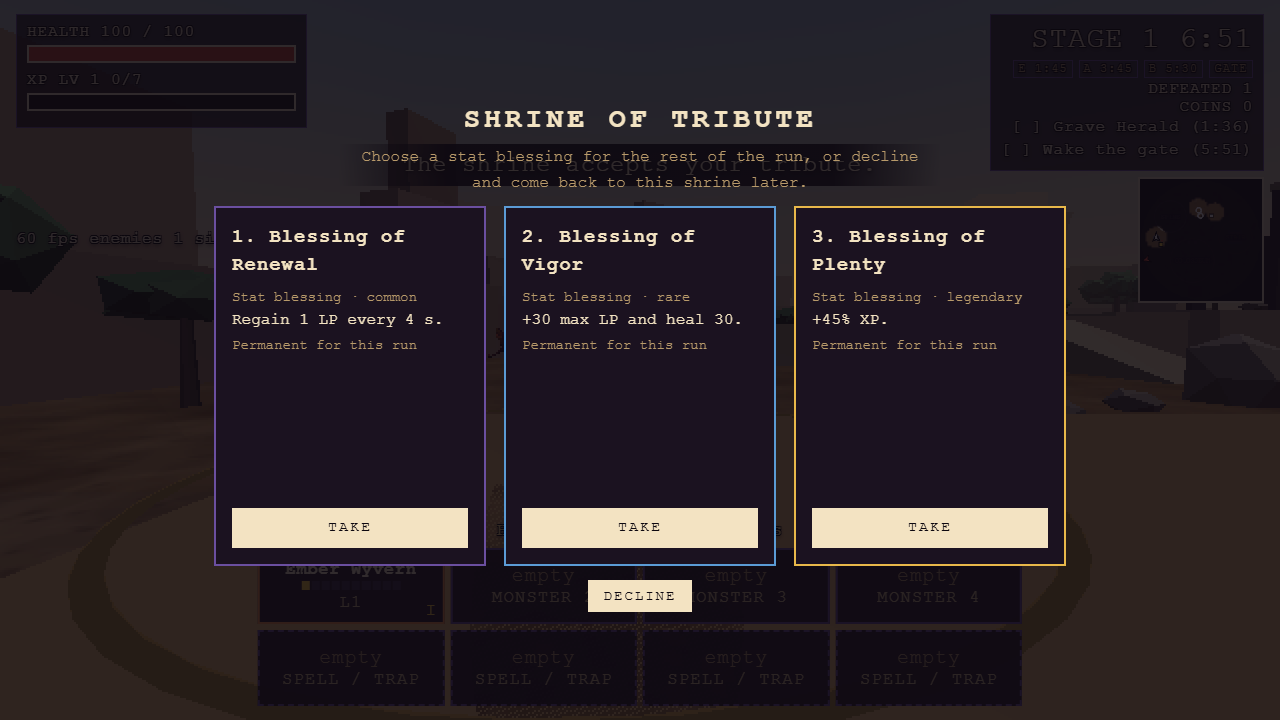
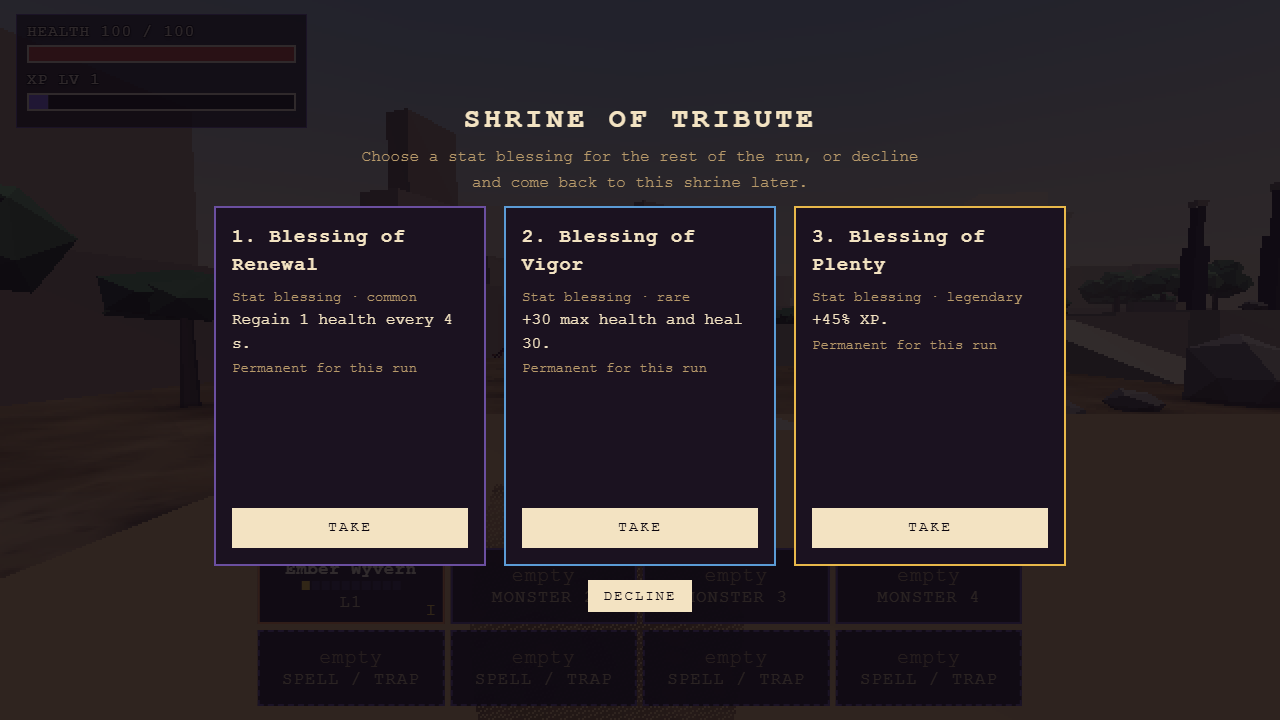
Fix: the shrines were not being added to the scene (a comment had swallowed the end of the line in the last props edit); Ley Thread core drawn with normal blending so it reads on sand; look-at pass script and screenshots
Claude-Session: https://claude.ai/code/session_01G4m5sPDpcSeznt8KShqd9B

diff --git a/duelsummoner/src/view/threads.js b/duelsummoner/src/view/threads.js
@@ -19,7 +19,7 @@ export class LeyThreads {
     const mk = (strips, mat) => { const g = new T.BufferGeometry(); g.setAttribute('position', new T.BufferAttribute(new Float32Array(SEG * 2 * strips * 3), 3)); g.setAttribute('color', new T.BufferAttribute(new Float32Array(SEG * 2 * strips * 4), 4));
       const idx = []; for (let k = 0; k < strips; k++) for (let s = 0; s < SEG - 1; s++) { const a = (k * SEG + s) * 2; idx.push(a, a + 1, a + 2, a + 1, a + 3, a + 2); } g.setIndex(idx);
       const m = new T.Mesh(g, mat); m.frustumCulled = false; m.visible = false; m.renderOrder = 3; this.group.add(m); return m; };
-    for (let i = 0; i < this.max; i++) this.list.push({ mesh: mk(2, this.matAdd), under: mk(1, this.matUnder), alive: false, trail: [], x: 0, z: 0, h: 0, gy: 0, gr: 0, life: 0, spd: 0, dx: 0, dz: 0, lat: 0 });
+    for (let i = 0; i < this.max; i++) this.list.push({ mesh: mk(1, this.matAdd), under: mk(2, this.matUnder), alive: false, trail: [], x: 0, z: 0, h: 0, gy: 0, gr: 0, life: 0, spd: 0, dx: 0, dz: 0, lat: 0 });
   }
   rnd() { this.rng = (this.rng * 1664525 + 1013904223) >>> 0; return this.rng / 4294967296; }
   _show(th, v) { th.mesh.visible = v; th.under.visible = v; }
@@ -71,10 +71,10 @@ export class LeyThreads {
       const taper = 1 - s / SEG, tw = 0.35 + taper * 0.65, near = sstep(4, 9, dist), a = taper * fade * fl * near * (th.far ? 0.75 : 1);
       const wc = Math.min(0.2, 0.5 * LEY.corePx * pxk * depth * tw), wh = Math.min(0.3, 0.5 * LEY.haloPx * pxk * depth * tw), wu = Math.min(0.4, 0.5 * LEY.underPx * pxk * depth * tw);       // sized by depth along the view axis, so the pixel width holds out to the screen edges
       const put = (P, i, w, sg) => P.setXYZ(i, q[0] + sx * w * sg, q[1] + sy * w * sg, q[2] + sz * w * sg);
-      put(pos, s * 2, wh, 1); put(pos, s * 2 + 1, wh, -1); put(pos, (SEG + s) * 2, wc, 1); put(pos, (SEG + s) * 2 + 1, wc, -1); put(upos, s * 2, wu, 1); put(upos, s * 2 + 1, wu, -1);
-      const ah = Math.min(maxA, a * 0.5), ac = Math.min(maxA, a * 0.75), au = Math.min(maxA, a * 0.55);
+      put(pos, s * 2, wh, 1); put(pos, s * 2 + 1, wh, -1); put(upos, s * 2, wu, 1); put(upos, s * 2 + 1, wu, -1); put(upos, (SEG + s) * 2, wc, 1); put(upos, (SEG + s) * 2 + 1, wc, -1);
+      const ah = Math.min(maxA, a * 0.5), ac = Math.min(LEY.coreAlpha, a * 1.1), au = Math.min(maxA, a * 0.55);       // the core is drawn with normal blending (additive white vanishes on bright sand), so it can be bright
       col.setXYZW(s * 2, this.halo.r, this.halo.g, this.halo.b, ah); col.setXYZW(s * 2 + 1, this.halo.r, this.halo.g, this.halo.b, ah);
-      col.setXYZW((SEG + s) * 2, this.core.r, this.core.g, this.core.b, ac); col.setXYZW((SEG + s) * 2 + 1, this.core.r, this.core.g, this.core.b, ac);
+      ucol.setXYZW((SEG + s) * 2, this.core.r, this.core.g, this.core.b, ac); ucol.setXYZW((SEG + s) * 2 + 1, this.core.r, this.core.g, this.core.b, ac);
       ucol.setXYZW(s * 2, this.under.r, this.under.g, this.under.b, au); ucol.setXYZW(s * 2 + 1, this.under.r, this.under.g, this.under.b, au);
     }
     pos.needsUpdate = col.needsUpdate = upos.needsUpdate = ucol.needsUpdate = true;

diff --git a/duelsummoner/src/view/props.js b/duelsummoner/src/view/props.js
@@ -66,7 +66,7 @@ export class Props {
       const water = new T.Mesh(new T.CylinderGeometry(1.1, 1.1, 0.05, 10), basic(rc)); water.position.y = 0.5; g.add(water);
       const track = new T.Mesh(new T.RingGeometry(E.shrines.radius - 0.6, E.shrines.radius, 48), basic(dim(rc, 0.75), { side: T.DoubleSide })); track.rotation.x = -Math.PI / 2; track.position.y = 0.1; g.add(track);
       const fill = new T.Mesh(new T.RingGeometry(E.shrines.radius - 0.6, E.shrines.radius, 48, 1, 0, 0.01), basic(rc, { side: T.DoubleSide, depthWrite: false })); fill.rotation.x = -Math.PI / 2; fill.position.y = 0.12; g.add(fill);
-      fill.userData.dyn = water.userData.dyn = track.userData.dyn = true; track.renderOrder = 1; fill.renderOrder = 2;       // the track stays out of the bake and draws first, the progress band over it (0.6 m wide) bake(g); G.add(g); P.shrines.push({ s, g, fill, water, lastP: -1 });
+      fill.userData.dyn = water.userData.dyn = track.userData.dyn = true; track.renderOrder = 1; fill.renderOrder = 2; bake(g); G.add(g); P.shrines.push({ s, g, fill, water, lastP: -1 });       // the track stays out of the bake and draws first, the progress band over it (0.6 m wide)
     }
     if (world.altar) {                                                  // stepped altar with two bowls: Banish and Tribute
       const a = world.altar, g = new T.Group(); g.position.set(a.x, a.y, a.z);

diff --git a/duelsummoner/src/data/config.js b/duelsummoner/src/data/config.js
@@ -33,4 +33,4 @@ export const CFG = {
 
 
 // Ley Threads: the one place their colour lives. A near-white core inside a violet halo with a thin dark under-stroke so it reads on bright sand (red stays reserved for enemy attacks).
-export const LEY = { core: 0xf4ecff, halo: 0xb26bff, under: 0x2e1a52, corePx: 1, haloPx: 2.2, underPx: 3.2, maxAlpha: 0.6 };
+export const LEY = { core: 0xf4ecff, halo: 0xb26bff, under: 0x2e1a52, corePx: 1, haloPx: 2.2, underPx: 3.2, maxAlpha: 0.6, coreAlpha: 0.9 };
